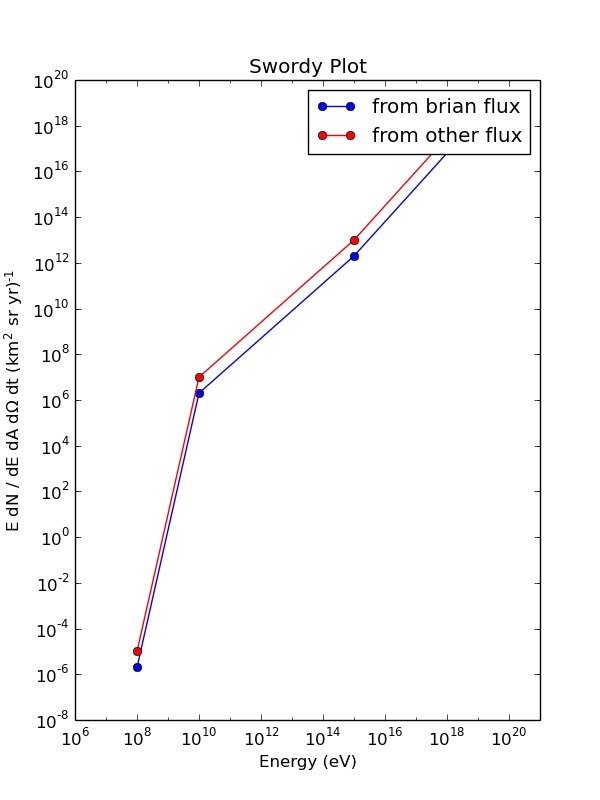
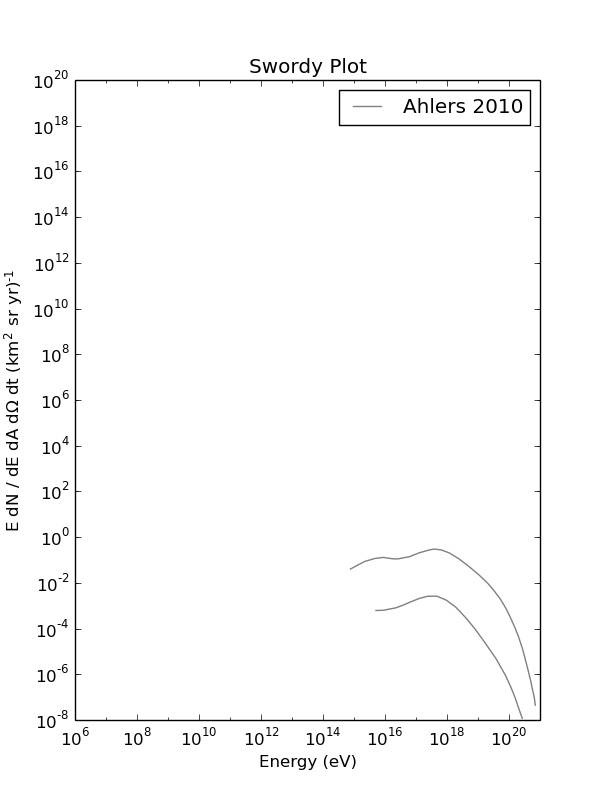
Rewored the way it chooses to plot various curves, added the upper and lower limit for Ahlers 2010

diff --git a/functions.py b/functions.py
@@ -1,8 +1,41 @@
 import numpy as np
-import matplotlib.pyplot as plt
-#a tester printer function
-def add_limit(axis_to_alter, file_name,plot_parameters,label_to_use):
-    x,y = np.loadtxt(file_name,
-                     unpack = True,
-                    delimiter = ',')
-    axis_to_alter.plot(x,y,plot_parameters,label=label_to_use)
+import matplotlib.pyplot as pl
+
+convert_m2s_to_km2yr=1.E4*86400.*365.24;
+
+
+def brianPlot(axis):
+    data = np.genfromtxt('brian_flux.csv', delimiter=',', skip_header=1, names=['energy', 'flux'])
+    axis.plot(data['energy'],data['flux'],'ro-',label = 'brians flux')
+
+def AhlersPlot(axis):
+        
+    #do things for the lower limit
+    datalow = np.genfromtxt('ahlers_2010_low.csv', delimiter=',', skip_header=1, names=['lowerx', 'lowery'])
+    AhlersLowerEnergy = datalow['lowerx']
+    AhlersLowerFlux = datalow['lowery']     
+    for i in xrange(AhlersLowerEnergy.shape[0]):
+        temporary = AhlersLowerEnergy[i]        
+        temporary+=9
+        AhlersLowerEnergy[i]=pow(10,temporary)
+        temporary = AhlersLowerFlux[i]
+        temporary2 = pow(10,temporary)
+        temporary2*=(1e9 * 1e4 * convert_m2s_to_km2yr / AhlersLowerEnergy[i])
+        AhlersLowerFlux[i]=temporary2
+    
+    #do things for the upper limit
+    datahigh = np.genfromtxt('ahlers_2010_high.csv', delimiter=',', skip_header=1, names=['upperx', 'uppery'])
+    AhlersUpperEnergy = datahigh['upperx']
+    AhlersUpperFlux = datahigh['uppery'] 
+    for i in xrange(AhlersUpperEnergy.shape[0]):
+        temporary = AhlersUpperEnergy[i]        
+        temporary+=9
+        AhlersUpperEnergy[i]=pow(10,temporary)
+        temporary = AhlersUpperFlux[i]
+        temporary2 = pow(10,temporary)
+        temporary2*=(1e9 * 1e4 * convert_m2s_to_km2yr / AhlersUpperEnergy[i])
+        AhlersUpperFlux[i]=temporary2
+
+    axis.plot(AhlersLowerEnergy,AhlersLowerFlux,'grey',label = 'Ahlers 2010')
+    axis.plot(AhlersUpperEnergy,AhlersUpperFlux,'grey')
+    #axis.fill_between(AhlersUpperEnergy,AhlersLowerFlux,AhlersUpperFlux,facecolor='grey', interpolate=True) //need to get this to work to make a band...

diff --git a/main.py b/main.py
@@ -4,18 +4,12 @@ from matplotlib import rcParams
 rcParams['mathtext.default'] = 'regular'
 from functions import *
 
-# a plot to hold all of the information about the data we want to plot
-#the first entry is the csv file that holds our data
-#the second entry holds the plotting features
-#the third entry holds the label
-#the fourth entry holds the kind of plot it is (limit, data, band)
-#the fifth argument holds hwether it should be plotted or not
-plot_info = np.array([
-                        ['brian_flux.csv', 'bo-', 'from brian flux','limit','yes'],
-                        ['other_flux.csv', 'ro-', 'from other flux','limit','yes']
-                    ])
+plotBrian = False
+plotAhlers = True
 
 def main():
+   
+
     #set up the final plot
     xlow = 1e6 #the lower x limit
     xup = 1.001e21 #the uppper x limit
@@ -24,14 +18,11 @@ def main():
     fig = plt.figure(figsize=(6,8))
     ax1 = fig.add_subplot(1,1,1)
 
-    #add the necessary curves and figures
-    rows = plot_info.shape[0] #figure out how many rows we need to plot
-    for i in xrange (0,rows):
-        if(plot_info[i][4] == 'no'):  #check to see if we're supposed to plot this data
-            continue
-        if(plot_info[i][3]=='limit'): #this means we should call the limit function
-            add_limit(ax1, plot_info[i][0],plot_info[i][1],plot_info[i][2])
-    ax1.fill_between(
+    if plotBrian:
+        brianPlot(ax1)
+    if plotAhlers:
+        AhlersPlot(ax1)
+
     #prepare the labels and save the figure
     ax1.set_xlabel('Energy (eV)') #give it a title
     ax1.set_ylabel(r'E dN / dE dA d$\Omega$ dt ($km^{2}$ sr yr)$^{-1}$')
@@ -43,6 +34,12 @@ def main():
     ax1.set_xticks([1e6,1e8,1e10,1e12,1e14,1e16,1e18,1e20])
     ax1.legend()
     fig.savefig('test.jpg',edgecolor='none') #save the figure
+    
+    
+    
+
+
+
 
 
 
